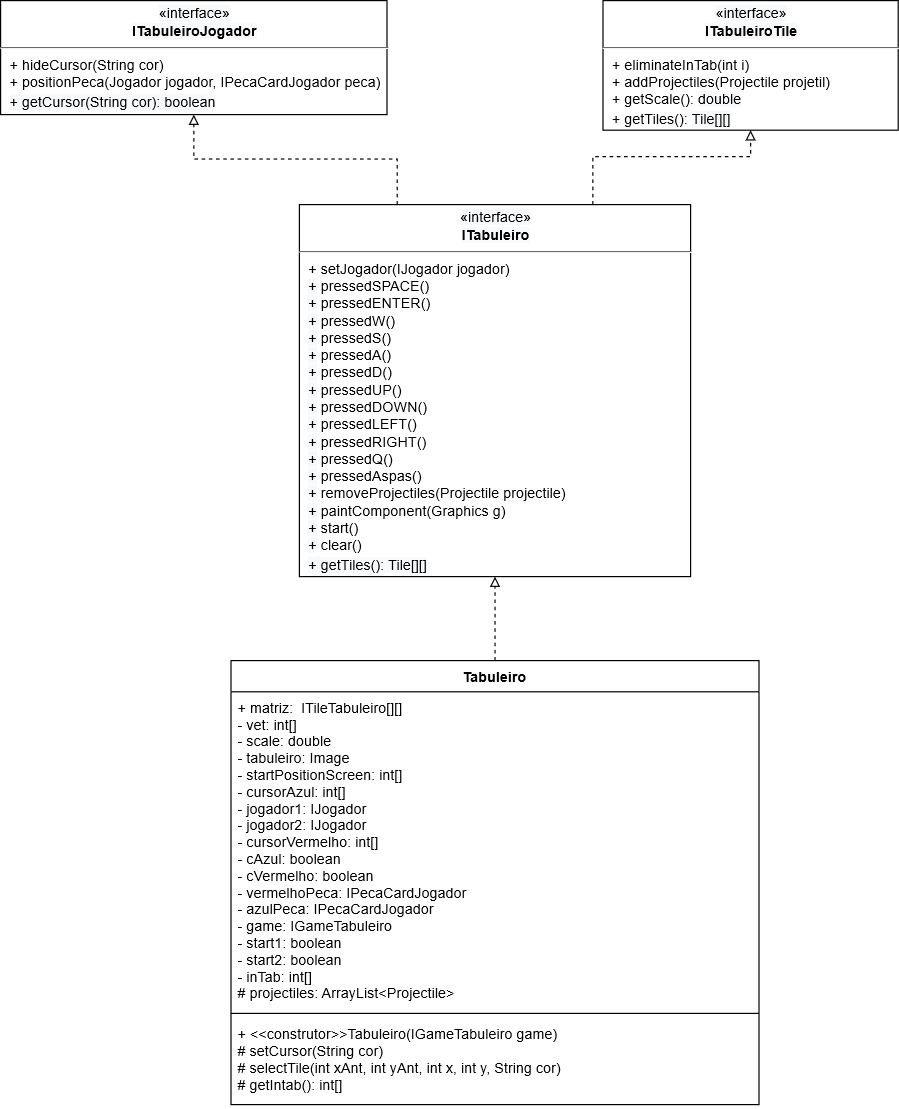
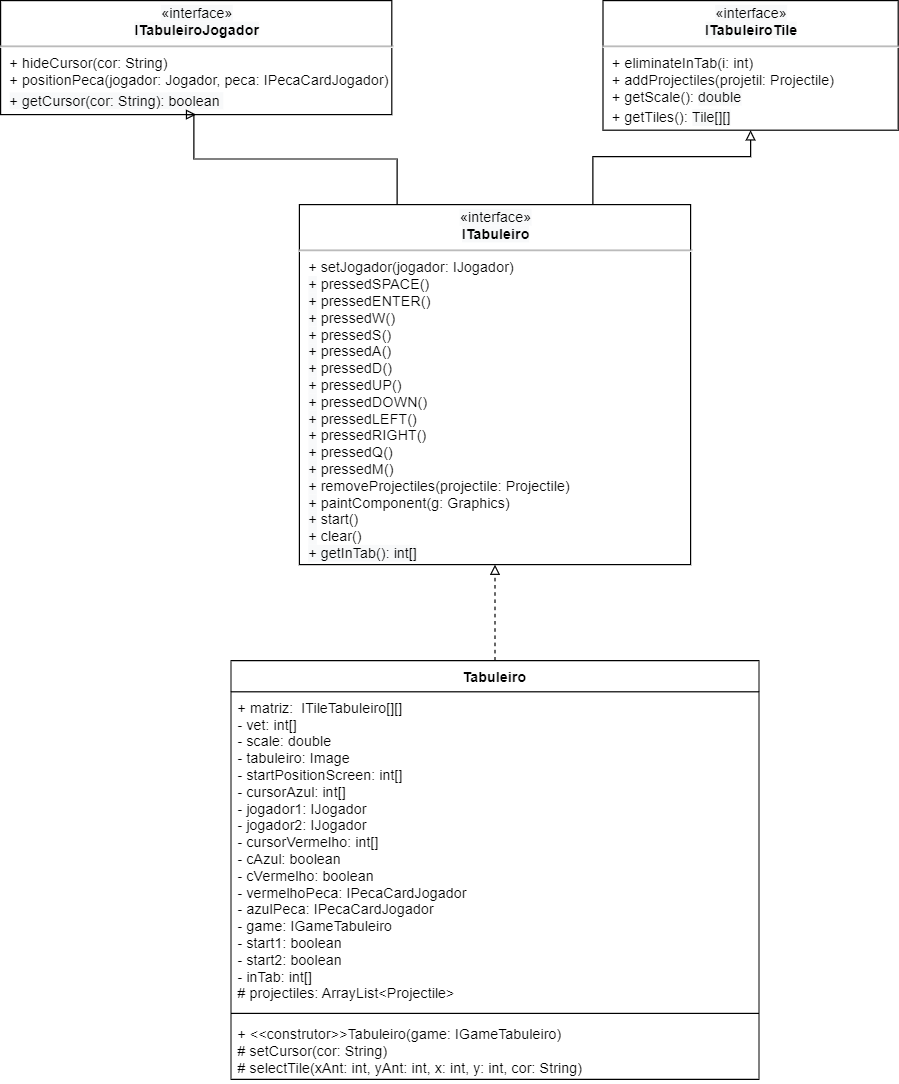
Atualizando Imagens da documentacao

diff --git a/src/src/peca/Projectile.java b/src/src/peca/Projectile.java
@@ -27,10 +27,10 @@ public abstract class Projectile extends JPanel{
 	private static final long serialVersionUID = -8344947528531167804L;
 	protected Image img;
 	private double[] translation={0.0,0.0};
-	private double[] basePosition = {0,0};
+	//private double[] basePosition = {0,0};
 	private double[] currentPosition;
 	private double[] alvoPosition;
-	private double scale;
+	//private double scale;
 	private double speed;
 	private double dano;
 	private int[] centerCorrection = new int[2];
@@ -42,9 +42,9 @@ public abstract class Projectile extends JPanel{
 	private IPecaCardJogador origem;
 	
 	public Projectile(double scale, double[] position, IPecaTile target, double dano, double speed,IPecaCardJogador origem) {
-		this.scale=scale;
+		//this.scale=scale;
 		this.origem=origem;
-		this.basePosition=position;
+		//this.basePosition=position;
 		this.currentPosition=position;
 		this.alvo=target;
 		this.dano=dano;

diff --git a/src/src/peca/IPecaTile.java b/src/src/peca/IPecaTile.java
@@ -16,7 +16,7 @@ public interface IPecaTile extends IPeca{
 	public IJogadorCard getJogador();
 	public ITilePeca getTile();
 	
-	public double[] getCenterPosition();
+	public abstract double[] getCenterPosition();
 	public void setTargetNull();
 	public boolean getMorto();
 	public void receberDano(double attackDamage, Peca peca);

diff --git a/src/src/tabuleiro/ITabuleiro.java b/src/src/tabuleiro/ITabuleiro.java
@@ -24,7 +24,7 @@ public interface ITabuleiro extends ITabuleiroTile,ITabuleiroJogador {
 
 	public void removeProjectiles(Projectile projectile);
 	public void paintComponent(Graphics g);
-	public Tile[][] getTiles();
+	//public Tile[][] getTiles();
 	public void start();
 	public void clear();
 

diff --git a/src/src/peca/Archer.java b/src/src/peca/Archer.java
@@ -43,7 +43,7 @@ public class Archer extends Ranged{
 	public String toString(){
 		return "Archer ";
 	}
-	public void setup(int x) {
+	private void setup(int x) {
 		animationFramesMove = new Image[3];
 		animationFramesAttack = new Image[6];
 		for(int i=0;i<9;i++){

diff --git a/src/src/peca/Knight.java b/src/src/peca/Knight.java
@@ -40,7 +40,7 @@ public class Knight extends Melee{
 	public String toString(){
 		return "Knight ";
 	}
-	public void setup(int x) {
+	private void setup(int x) {
 		animationFramesMove = new Image[3];
 		animationFramesAttack = new Image[3];
 		for(int i=0;i<6;i++){

diff --git a/src/src/peca/Orc.java b/src/src/peca/Orc.java
@@ -40,7 +40,7 @@ public class Orc extends Melee{
 	public String toString(){
 		return "Orc ";
 	}
-	public void setup(int x) {
+	private void setup(int x) {
 		animationFramesMove = new Image[3];
 		animationFramesAttack = new Image[3];
 		for(int i=0;i<6;i++){

diff --git a/src/src/peca/Wizard.java b/src/src/peca/Wizard.java
@@ -41,7 +41,7 @@ public class Wizard extends Ranged {
 		return "Wizard ";
 	}
 	
-	public void setup(int x) {
+	private void setup(int x) {
 		animationFramesMove = new Image[3];
 		animationFramesAttack = new Image[4];
 		for(int i=0;i<7;i++){
